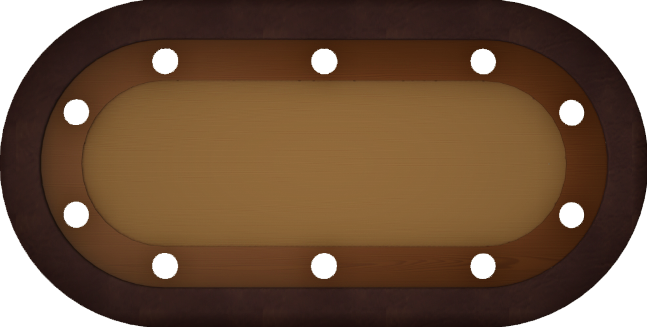
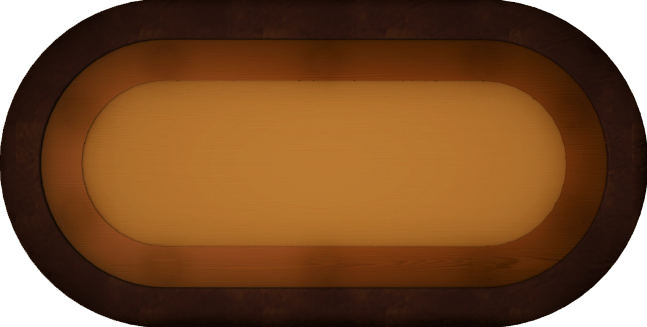
new table
new end screen
back card added
chip resized

diff --git a/src/poker/Poker.java b/src/poker/Poker.java
@@ -35,6 +35,8 @@ public class Poker extends javax.swing.JFrame {
         start_reglasBut = new javax.swing.JButton();
         start_salirBut = new javax.swing.JButton();
         gameLayer = new javax.swing.JLayeredPane();
+        game_gbLabel = new javax.swing.JLabel();
+        game_tableLabel = new javax.swing.JLabel();
         endLayer = new javax.swing.JLayeredPane();
         end_bgLabel = new javax.swing.JLabel();
         end_gameOverLabel = new javax.swing.JLabel();
@@ -97,12 +99,23 @@ public class Poker extends javax.swing.JFrame {
         startLayer.setBounds(0, 0, 1270, 700);
 
         gameLayer.setPreferredSize(new java.awt.Dimension(1270, 700));
+
+        game_gbLabel.setOpaque(true);
+        game_gbLabel.setPreferredSize(new java.awt.Dimension(1270, 700));
+        gameLayer.add(game_gbLabel);
+        game_gbLabel.setBounds(0, 0, 1270, 700);
+
+        game_tableLabel.setIcon(new javax.swing.ImageIcon(getClass().getResource("/img/table.png"))); // NOI18N
+        gameLayer.setLayer(game_tableLabel, javax.swing.JLayeredPane.MODAL_LAYER);
+        gameLayer.add(game_tableLabel);
+        game_tableLabel.setBounds(311, 90, 647, 327);
+
         mainPane.add(gameLayer);
         gameLayer.setBounds(0, 0, 1270, 700);
 
         endLayer.setPreferredSize(new java.awt.Dimension(1270, 700));
 
-        end_bgLabel.setBackground(new java.awt.Color(244, 244, 244));
+        end_bgLabel.setBackground(new java.awt.Color(0, 0, 0));
         end_bgLabel.setOpaque(true);
         end_bgLabel.setPreferredSize(new java.awt.Dimension(1270, 700));
         endLayer.add(end_bgLabel);
@@ -172,6 +185,8 @@ public class Poker extends javax.swing.JFrame {
     private javax.swing.JLabel end_gameOverLabel;
     private javax.swing.JButton end_salirBut;
     private javax.swing.JLayeredPane gameLayer;
+    private javax.swing.JLabel game_gbLabel;
+    private javax.swing.JLabel game_tableLabel;
     private javax.swing.JLayeredPane mainPane;
     private javax.swing.JLayeredPane startLayer;
     private javax.swing.JLabel start_bgLabel;
